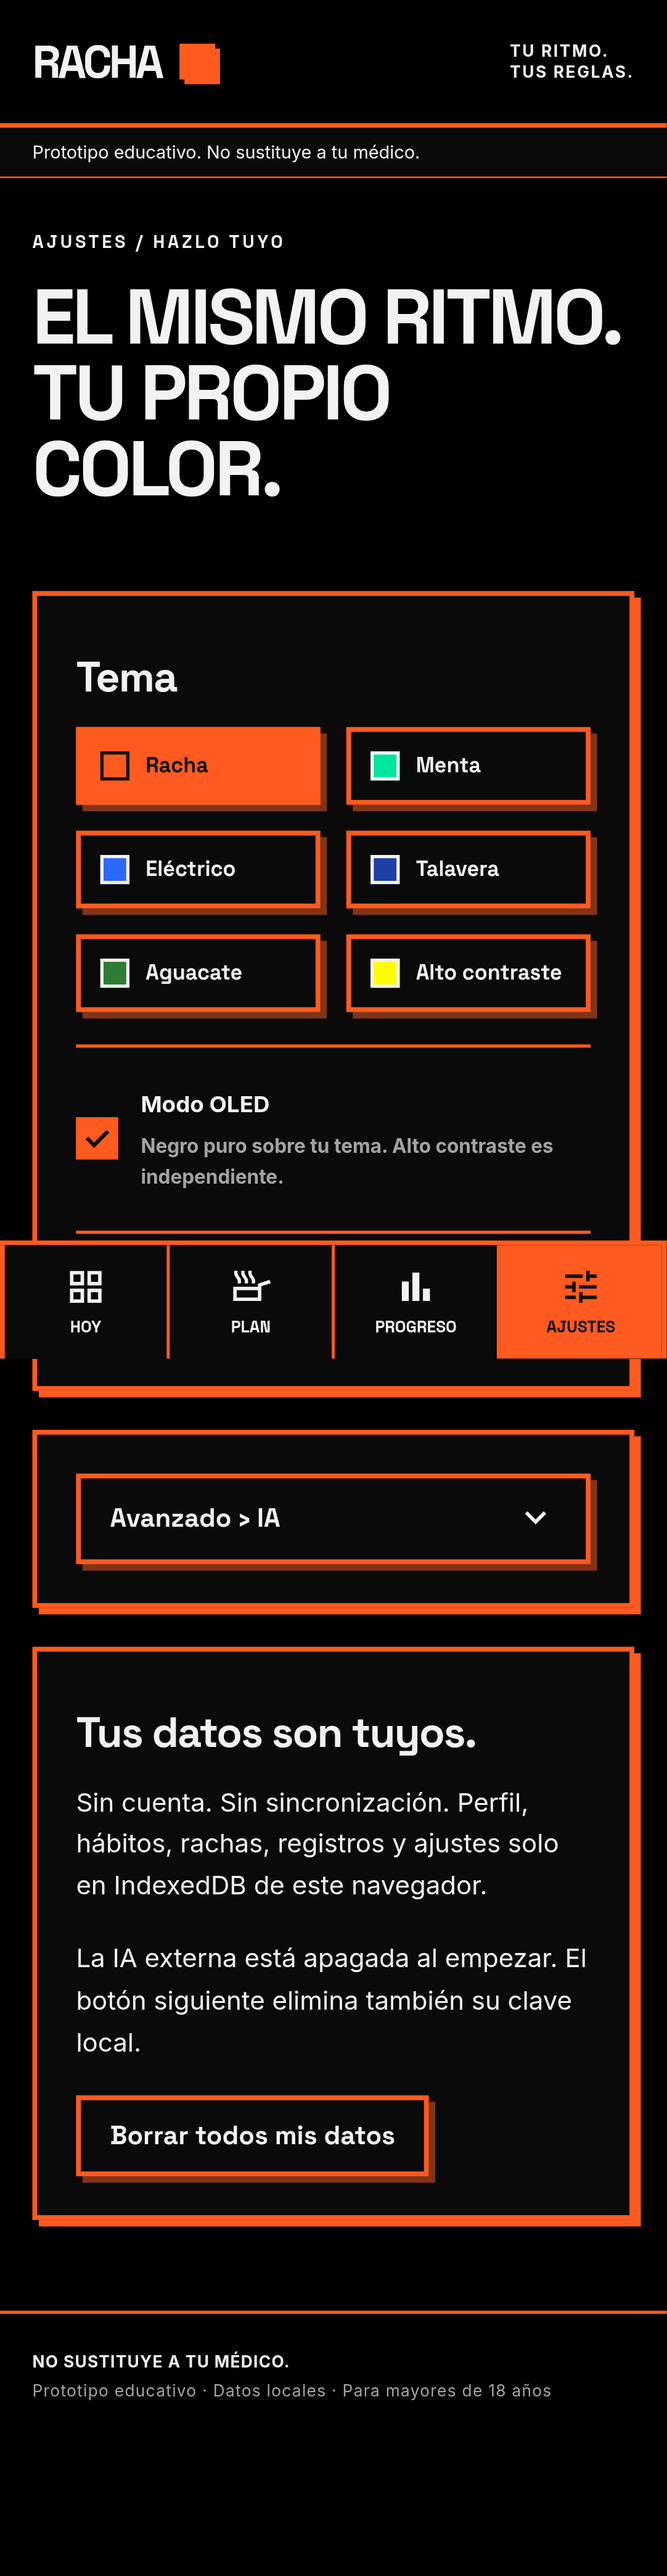
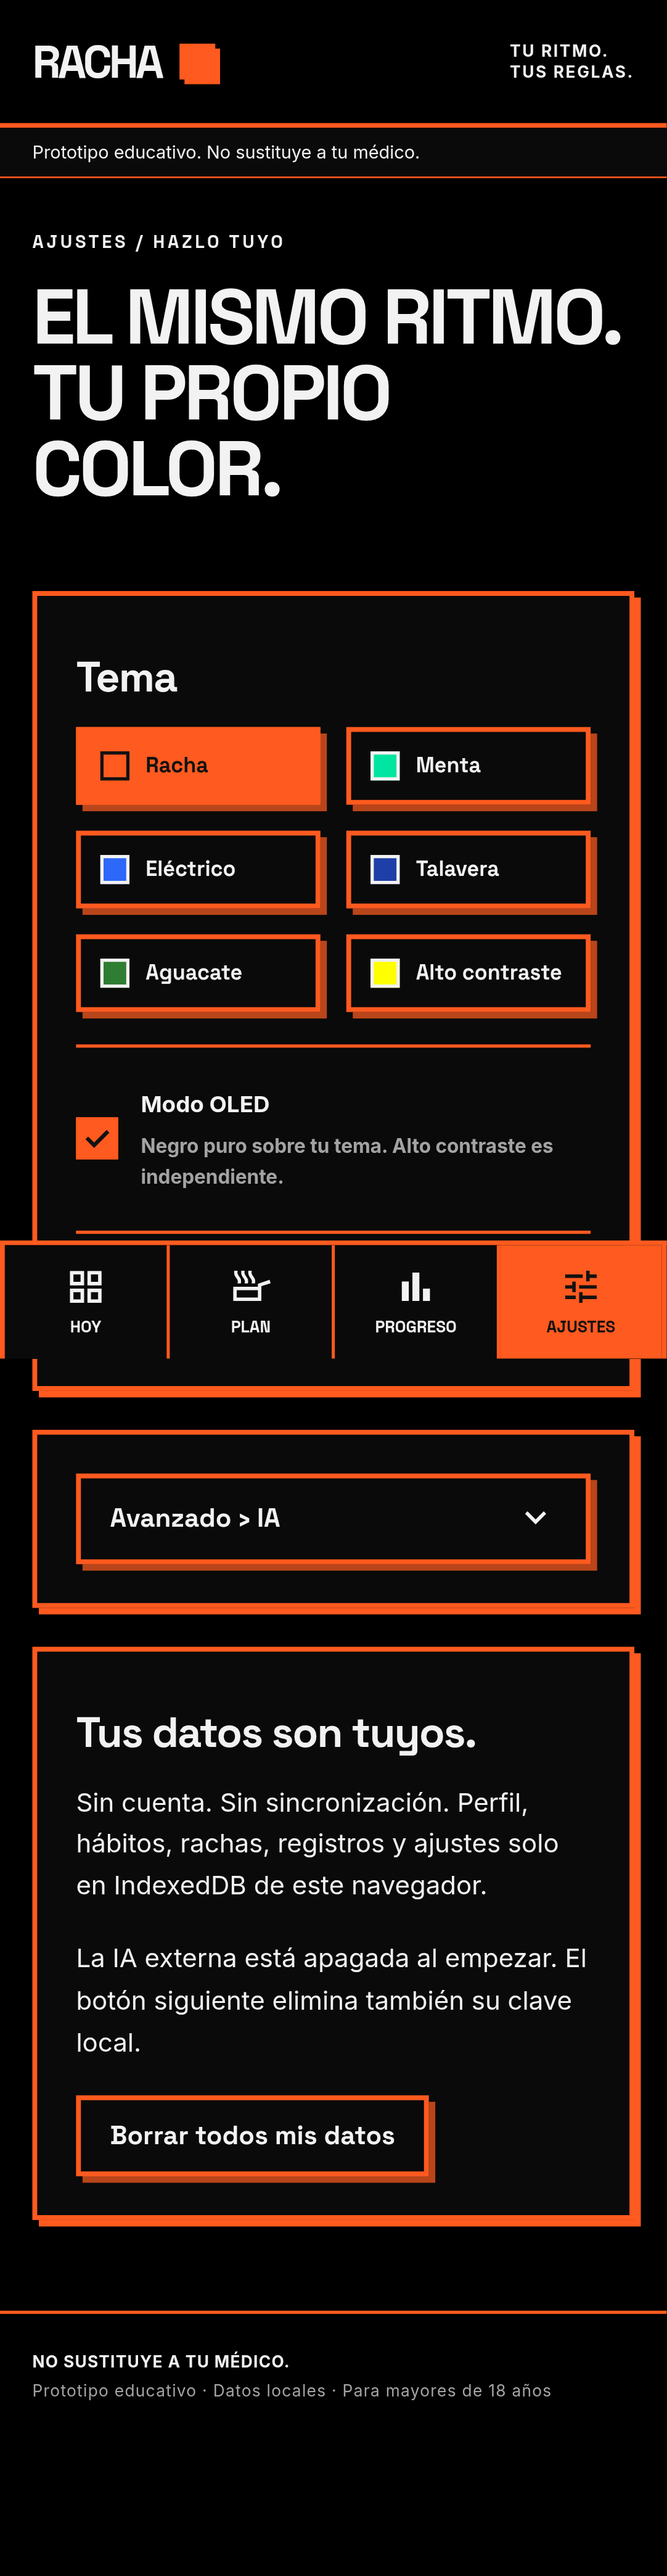
Publica la demo y documenta pruebas y recuperación de datos locales

diff --git a/e2e/ana.spec.ts b/e2e/ana.spec.ts
@@ -233,3 +233,27 @@ test('capturas OLED para las slides con todas las pantallas principales', async 
   await page.getByRole('button', { name: 'Ver mi logro', exact: true }).click();
   await page.screenshot({ path: `${shots}/17-logro-oled-pantalla.png`, fullPage: false });
 });
+
+test('datos locales corruptos: recuperación explícita sin bloquear el inicio', async ({ page }) => {
+  await onboard(page);
+  await page.evaluate(
+    () =>
+      new Promise<void>((resolve, reject) => {
+        const request = indexedDB.open('racha', 1);
+        request.onsuccess = () => {
+          const db = request.result;
+          const tx = db.transaction('ajustes', 'readwrite');
+          tx.objectStore('ajustes').put({ id: 'local', tema: 42 });
+          tx.oncomplete = () => {
+            db.close();
+            resolve();
+          };
+          tx.onerror = () => reject(tx.error);
+        };
+      }),
+  );
+  await page.reload();
+  await expect(page.getByRole('alert')).toContainText('formato esperado');
+  await page.getByRole('button', { name: 'Borrar datos locales e intentar de nuevo' }).click();
+  await expect(page.getByRole('heading', { name: 'Haz espacio para ti.' })).toBeVisible();
+});

diff --git a/src/app/app.ts b/src/app/app.ts
@@ -497,6 +497,10 @@ export class App implements OnInit {
   async reset() {
     try {
       await this.db.clear();
+      if (!this.ready()) {
+        window.location.reload();
+        return;
+      }
       this.profile.set(null);
       this.records.set([]);
       this.settings.set({ ...defaultSettings });

diff --git a/docs/PRUEBAS.md b/docs/PRUEBAS.md
@@ -6,7 +6,7 @@
 
 - `npm run build`: PASS, cero errores. Permanece una advertencia del presupuesto inicial estándar de Angular (500 kB); no se aumentó el umbral para esconderla. El presupuesto de error de 1 MB no se excede.
 - `npm test -- --watch=false`: **48/48 PASS**, cinco archivos de pruebas.
-- `CHROMIUM_PATH=/home/benja/.local/bin/chromium npm run test:e2e`: **6/6 PASS**, Chromium headless, build de producción.
+- `CHROMIUM_PATH=/home/benja/.local/bin/chromium npm run test:e2e`: **7/7 PASS**, Chromium headless, build de producción.
 - Catálogo: **300 alimentos + 80 ejercicios**, validación original en `public/catalogo/validacion.json`, adaptación reproducible con `tools/normalizar_catalogo.py`.
 - Identidad Git: autor y committer iguales, nombre de perfil GitHub de Yael, correo noreply de su cuenta; sin trailers. `npm run verify:identity` automatiza la comprobación.
 
@@ -21,7 +21,8 @@
 7. Modo sin conexión: tras activar el service worker y recargar, Hoy y Plan funcionan con catálogo y datos locales.
 8. Borrar todo devuelve al onboarding, incluso tras recargar. La prueba de IndexedDB verifica que la clave también desaparece.
 9. IA compatible se prueba con proveedor **simulado**, respuesta válida y malformada/inventada. La prueba inspecciona que no se envíen medidas, medicamentos ni padecimientos. No se usó una clave real ni se generaron cargos.
-10. Diseño responsive móvil/escritorio, radio 0 y ausencia de desbordamiento horizontal en la historia de Ana.
+10. Recuperación ante ajustes locales corruptos: aviso, borrado explícito y onboarding de nuevo.
+11. Diseño responsive móvil/escritorio, radio 0 y ausencia de desbordamiento horizontal en la historia de Ana.
 
 ## Capturas
 
@@ -35,3 +36,9 @@
 - CORS/costos/retención de un proveedor IA real dependen de su cuenta y servicio; no se han verificado todos. La clave local no está cifrada por la app.
 - Instalación nativa de la PWA en un teléfono físico y revisión con una persona no técnica quedan pendientes. El manifest, iconos y service worker sí están integrados y el modo offline se prueba en Chromium.
 - Hay una advertencia de tamaño inicial de bundle; queda como optimización, no como error de compilación.
+
+## GitHub Pages
+
+Demo pública: https://kyostenas.github.io/racha-app/ . La prueba `CHROMIUM_PATH=/home/benja/.local/bin/chromium node tools/smoke-pages.mjs` se ejecutó contra esa URL con resultado PASS: onboarding, receta, racha, OLED y recarga sin conexión, sin errores de página. Es una sesión aislada con datos ficticios; no se usó ninguna cuenta del navegador.
+
+CI reproduce unidades, build y E2E; después compila con base `/racha-app/` y publica vía Actions sin crear commits de despliegue.

diff --git a/README.md b/README.md
@@ -1,5 +1,7 @@
 # Racha ■
 
+**Demo pública:** https://kyostenas.github.io/racha-app/
+
 Pequeños pasos. Grandes rachas. Prototipo educativo de Tecnologías de Información, LAMAR.
 
 **No sustituye a tu médico.** Solo para adultos; no es dispositivo médico ni dieta clínica. No evalúa interacciones farmacológicas ni valida padecimientos.
